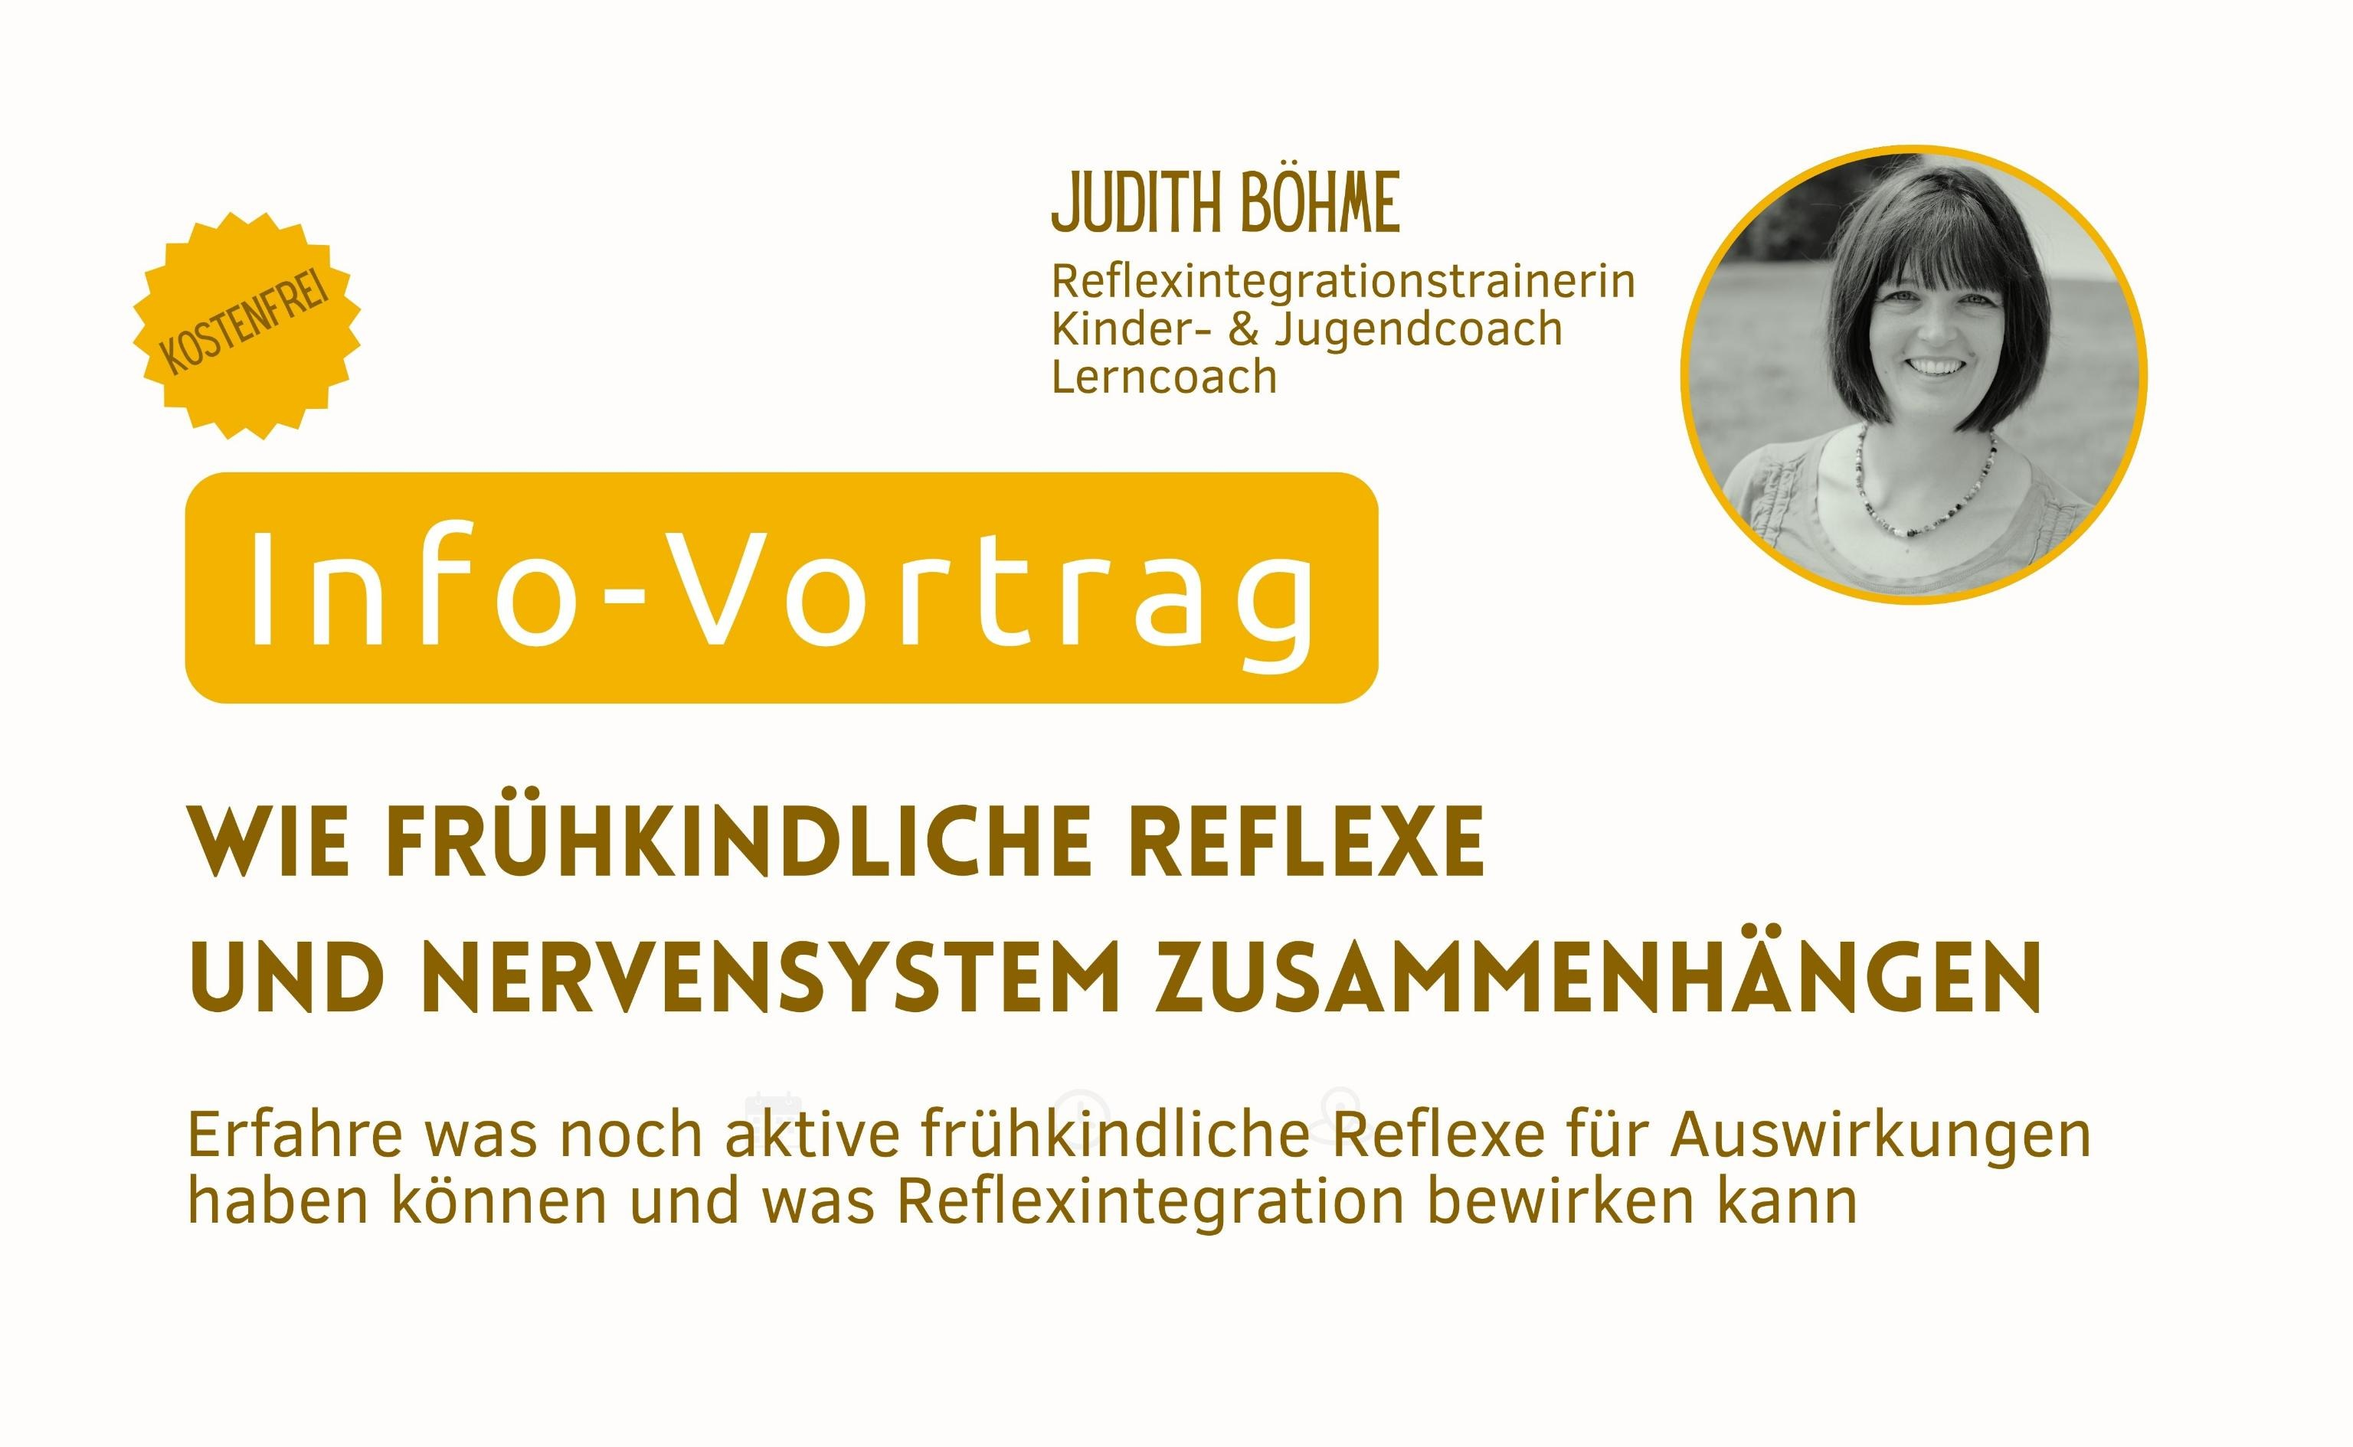
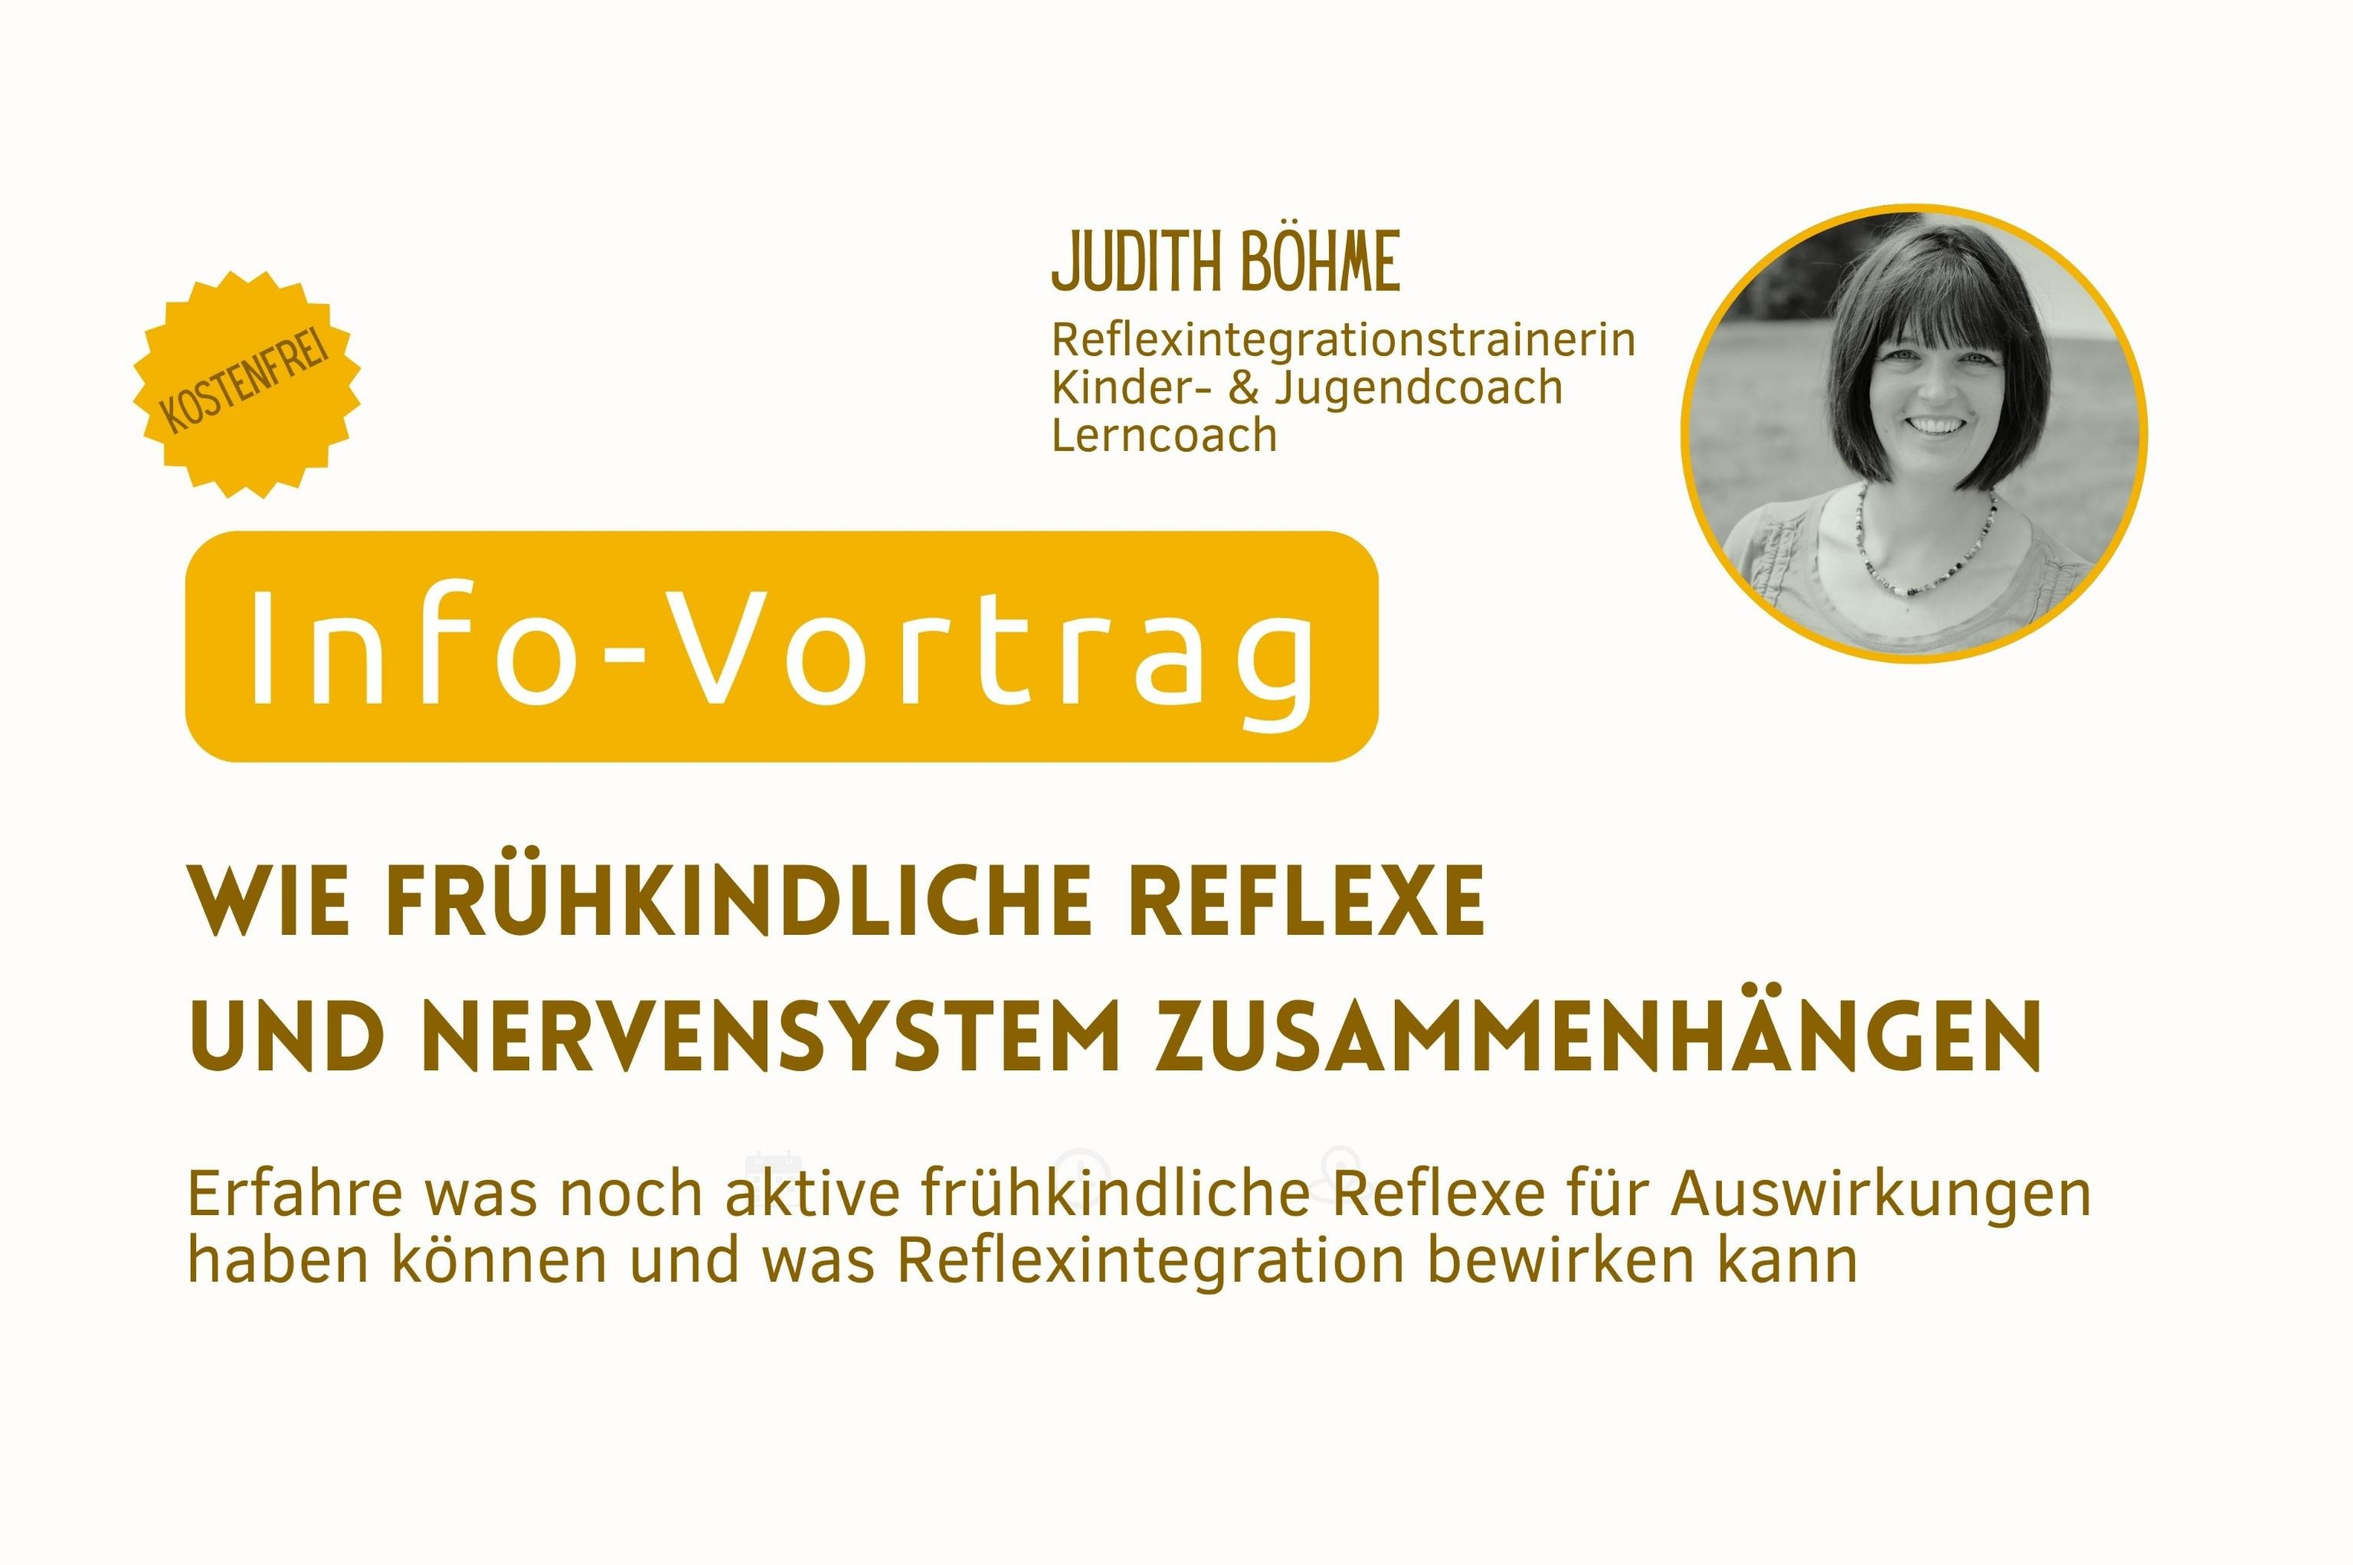
verlinkung in index.html

diff --git a/index.html b/index.html
@@ -480,6 +480,24 @@
 
     <div class="sec-content-div tile-grid">
 
+      <a href="rit-info.html" class="tile-link">
+        <article class="tile">
+          <img
+            src="assets/Infovortrag-fruehkindliche-reflexe.jpg"
+            alt="Infovortrag">
+
+          <h3>Info-Veranstaltung</h3>
+
+          <p>
+            <i>Do, 19.11. 19:00 Uhr</i><br>
+            <i>Präsenz</i>
+          </p>
+
+          <p>
+            Kostenfreier Informationsabend über frühkindliche Reflexe, Nervensystem und Reflexintegrationstraining.
+          </p>
+        </article>
+      </a>
 
       <a href="reflexintegration.html" class="tile-link">
         <article class="tile">
